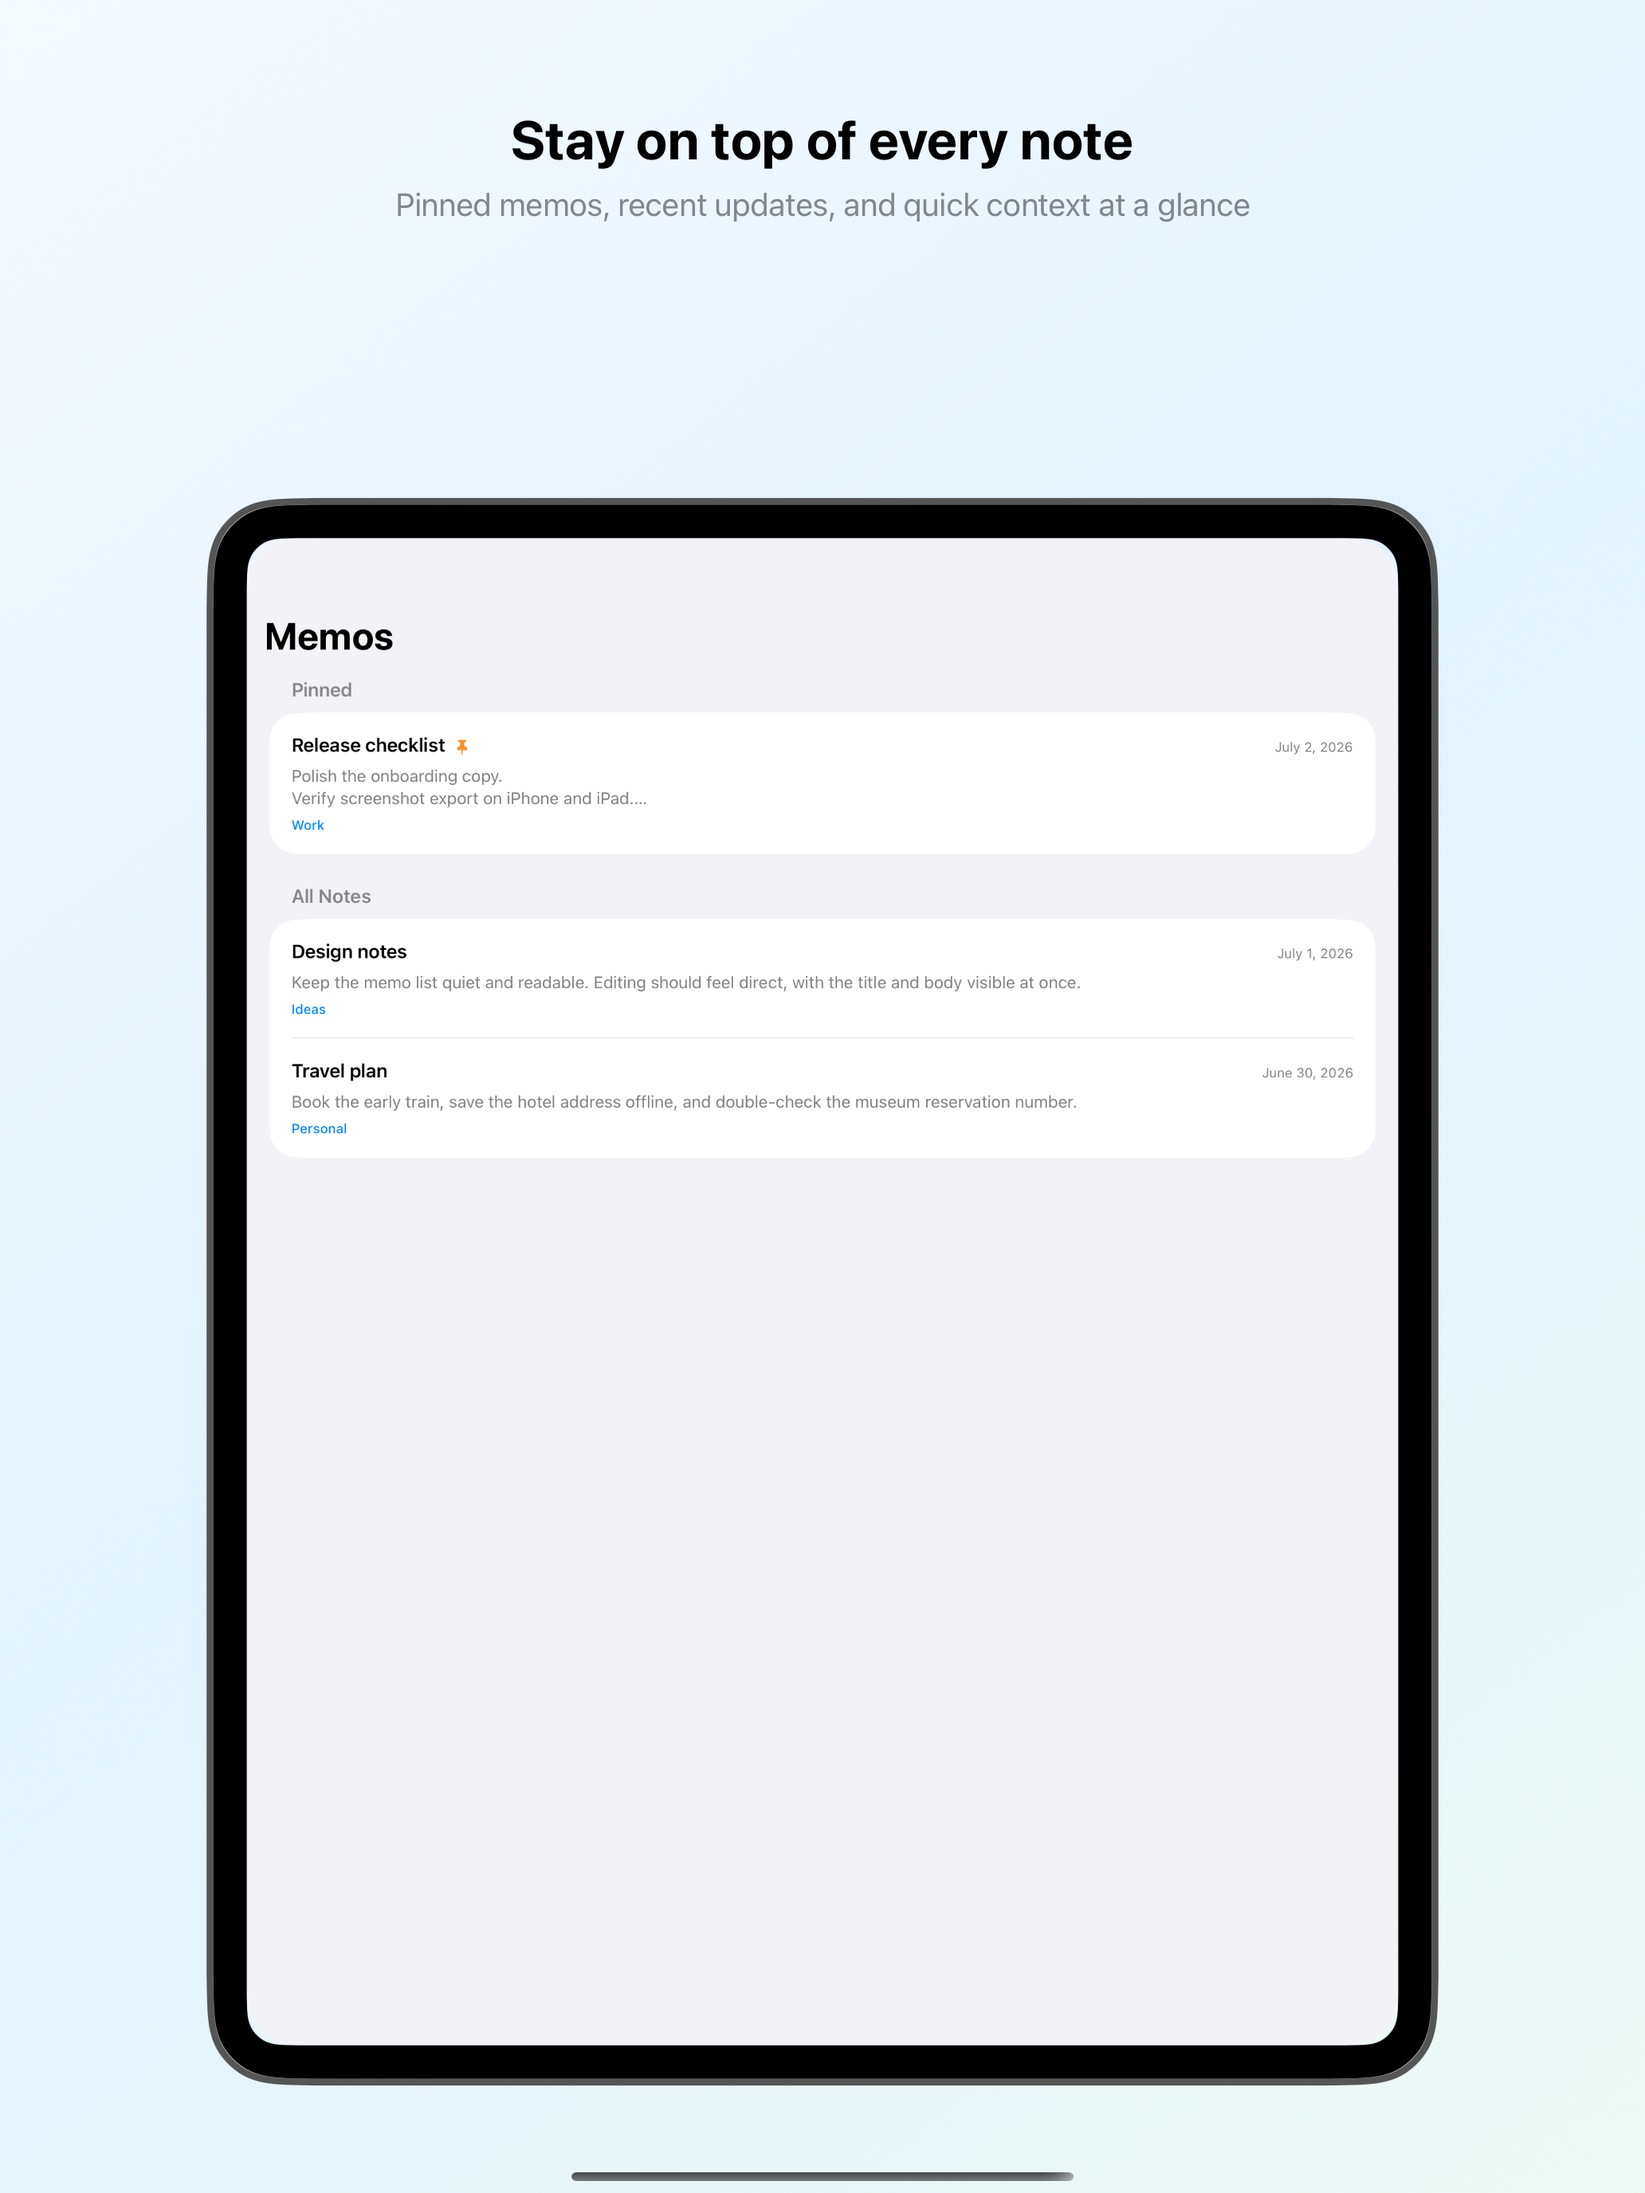
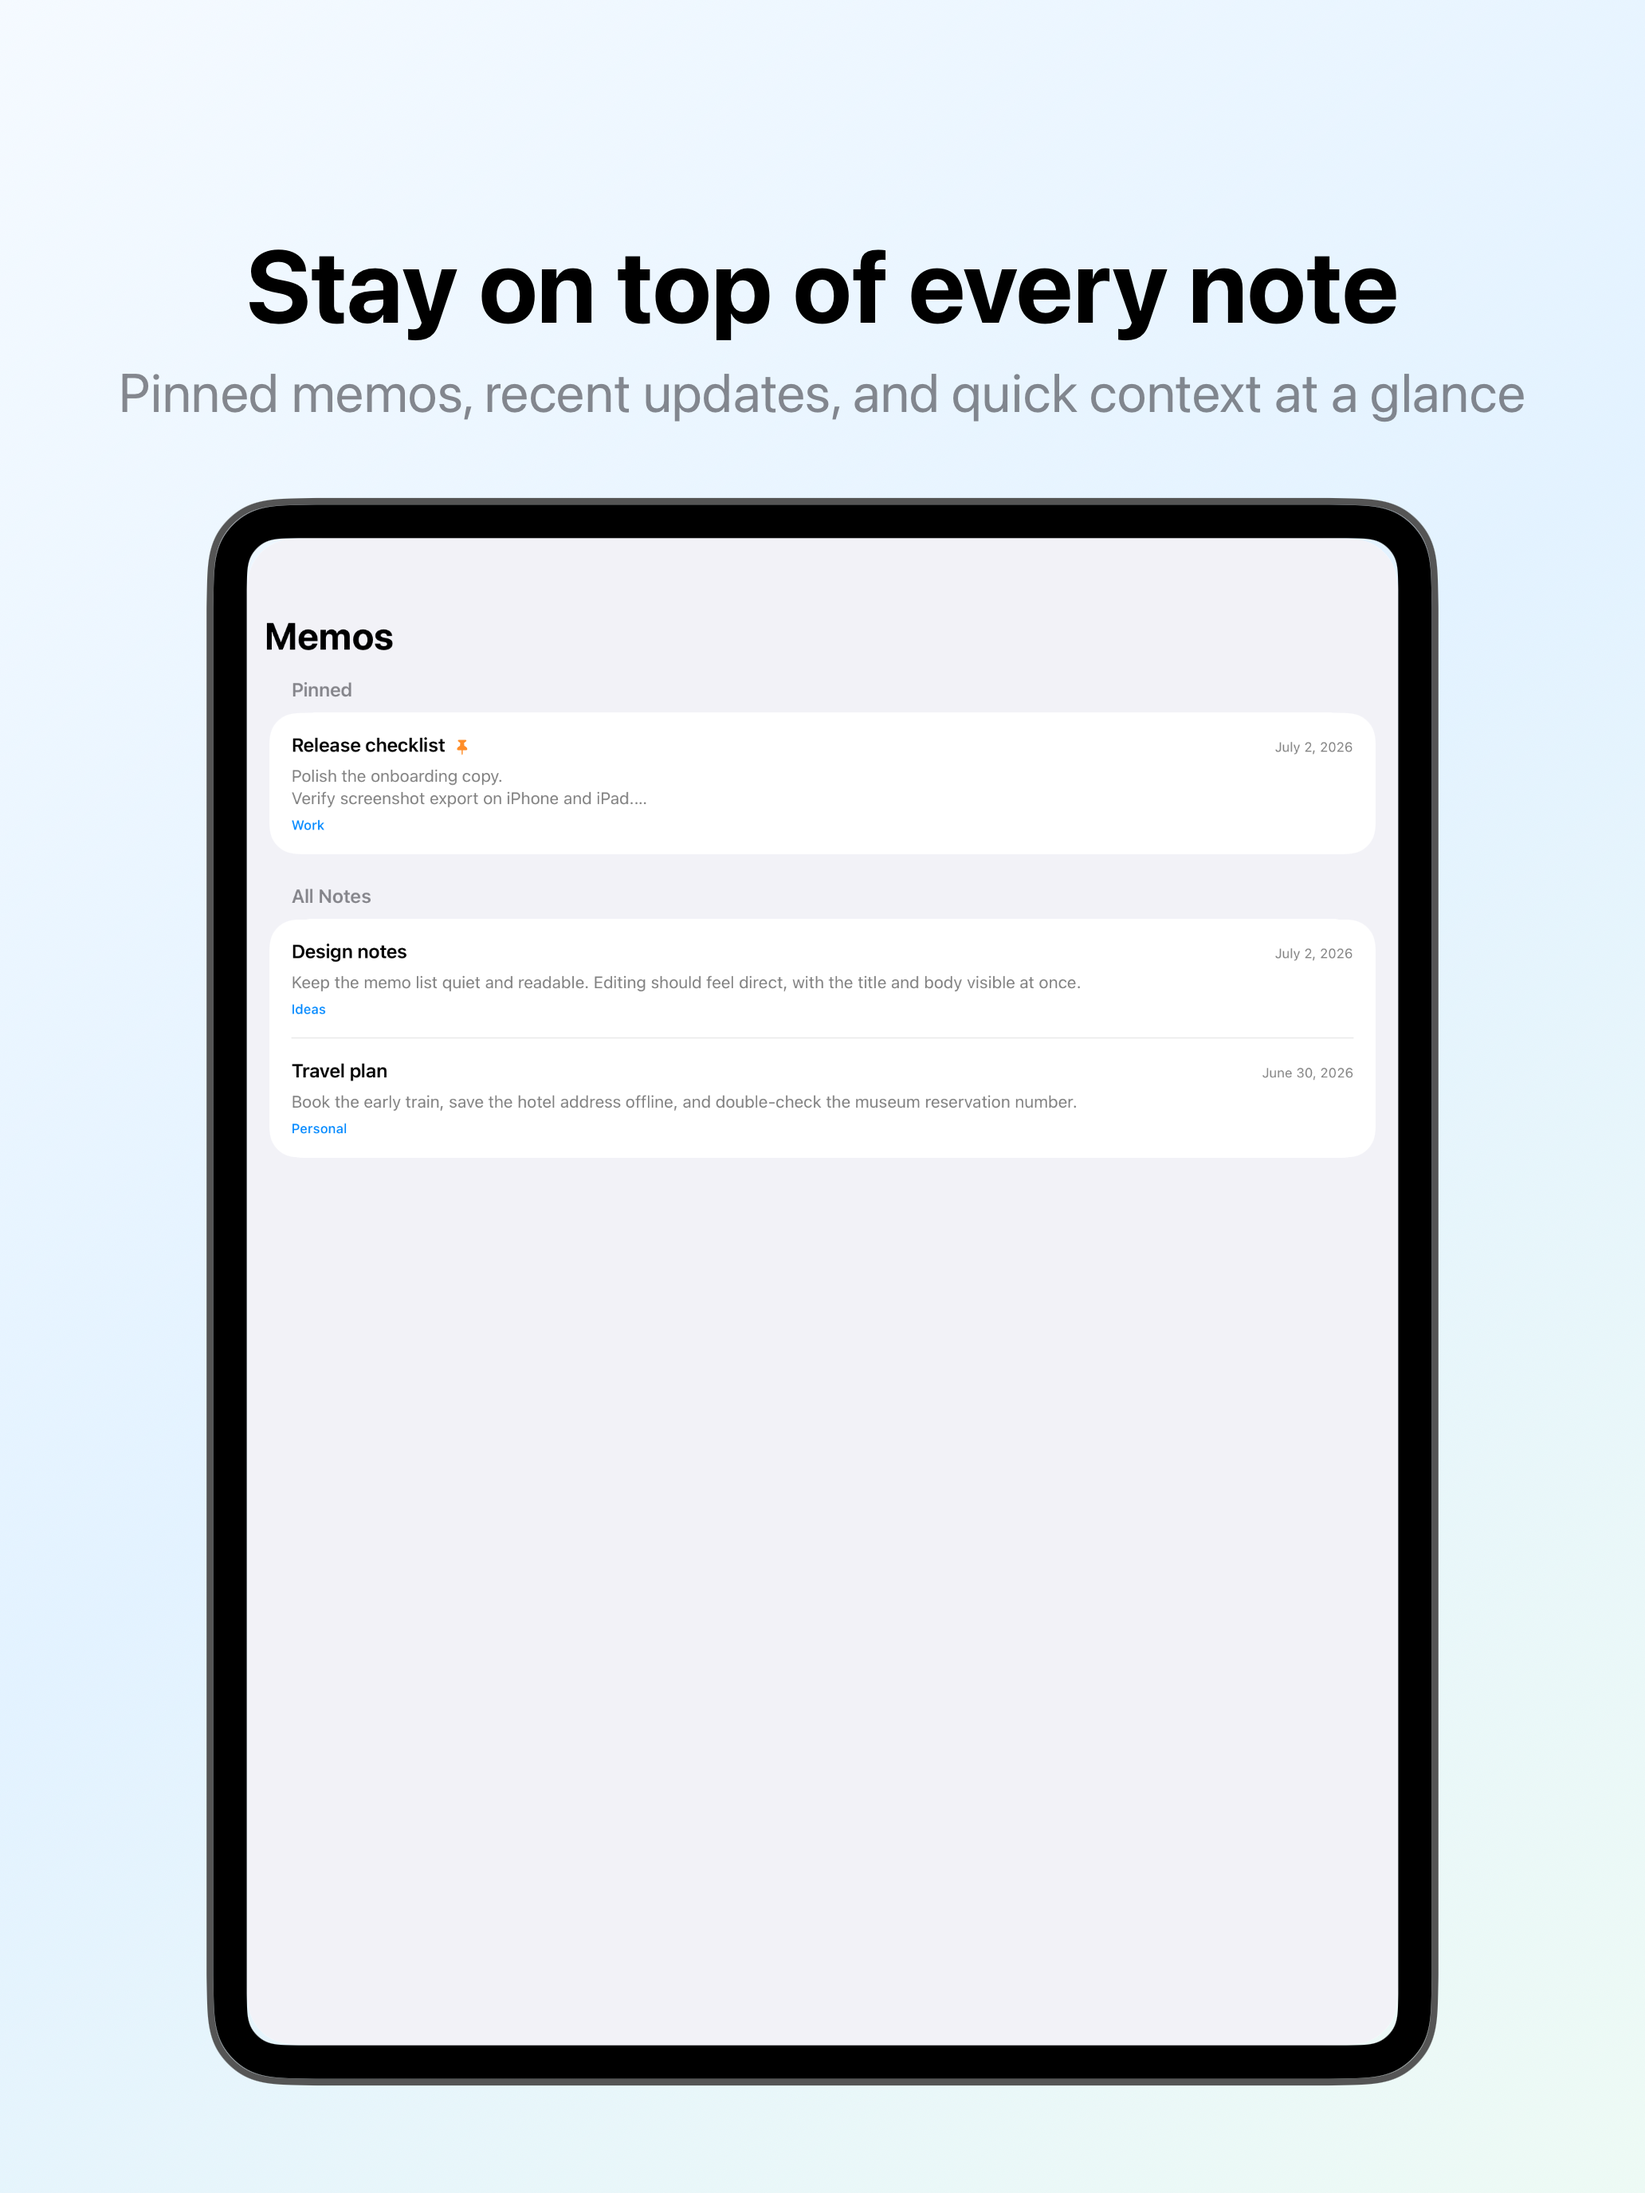
Add workspace configuration, update screenshot styles, and modify session paths for iPad Pro and iPhone 17 Pro Max

Changed region(s): [[0.062, 0.0312, 0.9302, 0.1875], [0.3411, 0.9688, 0.6512, 1.0]]

diff --git a/Sources/ScreenshotKit/Presentation/BuiltinScreenshotStyles.swift b/Sources/ScreenshotKit/Presentation/BuiltinScreenshotStyles.swift
@@ -11,9 +11,10 @@ public struct HeroScreenshotStyle: ScreenshotStyle {
     @MainActor
     public func makeBody(configuration: ScreenshotStyleConfiguration) -> some View {
         GeometryReader { proxy in
+            let deviceKind = ScreenshotDeviceKind.current
             let previewVerticalCompensation = ScreenshotPreviewLayoutMetrics.verticalCompensation(
                 isRunningForPreview: ScreenshotPreviewLayoutMetrics.isRunningForPreview(),
-                deviceKind: ScreenshotDeviceKind.current,
+                deviceKind: deviceKind,
                 topSafeAreaInset: proxy.safeAreaInsets.top
             )
 
@@ -31,7 +32,12 @@ public struct HeroScreenshotStyle: ScreenshotStyle {
                         .multilineTextAlignment(.center)
                 }
                 .padding(.horizontal)
-                .offset(x: 0, y: proxy.size.height * 0.05)
+                .offset(
+                    x: 0,
+                    y: ScreenshotPreviewLayoutMetrics.titleSubtitleVerticalOffset(
+                        for: deviceKind
+                    ) + proxy.size.height * 0.05
+                )
             }
             .offset(x: 0, y: previewVerticalCompensation)
         }
@@ -60,9 +66,23 @@ extension DefaultScreenshotStyle: ResolvedScreenshotStyleIdentifying {
 
 enum ScreenshotPreviewLayoutMetrics {
     static let previewEnvironmentKey = "XCODE_RUNNING_FOR_PREVIEW"
+    static let approximatePhoneStatusBarHeight: CGFloat = 46
+    static let approximatePhoneScreenHeight: CGFloat = 852
+    static let approximatePadScreenHeight: CGFloat = 1366
+    static let approximatePadTitleSubtitleVerticalOffset =
+        approximatePhoneStatusBarHeight * (approximatePadScreenHeight / approximatePhoneScreenHeight)
 
     static func isRunningForPreview(processInfo: ProcessInfo = .processInfo) -> Bool {
         processInfo.environment[previewEnvironmentKey] == "1"
+    }
+
+    static func titleSubtitleVerticalOffset(for deviceKind: ScreenshotDeviceKind) -> CGFloat {
+        switch deviceKind {
+        case .phone:
+            0
+        case .pad:
+            approximatePadTitleSubtitleVerticalOffset
+        }
     }
 
     static func verticalCompensation(

diff --git a/Sources/ScreenshotKit/Presentation/ScreenshotView+Initializers.swift b/Sources/ScreenshotKit/Presentation/ScreenshotView+Initializers.swift
@@ -17,19 +17,39 @@ public extension ScreenshotView where Background == EmptyView, Title == AnyView,
             title: {
                 AnyView(
                     Text(title)
-                        .font(.largeTitle)
+                        .font(ScreenshotDefaultTextStyle.titleFont)
                         .fontWeight(.bold)
                 )
             },
             subtitle: {
                 AnyView(
                     Text(subtitle)
-                        .font(.title3)
+                        .font(ScreenshotDefaultTextStyle.subtitleFont)
                         .foregroundStyle(.secondary)
                 )
             },
             content: content
         )
+    }
+}
+
+private enum ScreenshotDefaultTextStyle {
+    static var titleFont: Font {
+        switch ScreenshotDeviceKind.current {
+        case .phone:
+            .largeTitle
+        case .pad:
+            .system(size: 64, weight: .bold)
+        }
+    }
+
+    static var subtitleFont: Font {
+        switch ScreenshotDeviceKind.current {
+        case .phone:
+            .title3
+        case .pad:
+            .system(size: 34, weight: .regular)
+        }
     }
 }
 

diff --git a/Tests/ScreenshotKitTests/ScreenshotKitTests.swift b/Tests/ScreenshotKitTests/ScreenshotKitTests.swift
@@ -271,6 +271,17 @@ func previewLayoutMetricsCompensateTopInsetOnlyInPreview() {
 }
 
 @Test
+func previewLayoutMetricsUseFixedPadTitleOffsetOnlyForPad() {
+    #expect(
+        ScreenshotPreviewLayoutMetrics.titleSubtitleVerticalOffset(for: .phone) == 0
+    )
+    #expect(
+        ScreenshotPreviewLayoutMetrics.titleSubtitleVerticalOffset(for: .pad)
+        == ScreenshotPreviewLayoutMetrics.approximatePadTitleSubtitleVerticalOffset
+    )
+}
+
+@Test
 func screenshotStyleEnvironmentDefaultsToResolvedHeroStyle() {
     let environment = EnvironmentValues()
 

diff --git a/Sources/ScreenshotKit/Presentation/ScreenshotDeviceScreenView.swift b/Sources/ScreenshotKit/Presentation/ScreenshotDeviceScreenView.swift
@@ -107,7 +107,7 @@ enum ScreenshotDeviceKind {
     var outerBorderLineWidth: CGFloat {
         switch self {
         case .phone:
-            6
+            3
         case .pad:
             6
         }
@@ -116,7 +116,7 @@ enum ScreenshotDeviceKind {
     var innerBorderLineWidth: CGFloat {
         switch self {
         case .phone:
-            3
+            6
         case .pad:
             30
         }

diff --git a/ExampleApp/ExampleApp/ExampleScreenshotItems.swift b/ExampleApp/ExampleApp/ExampleScreenshotItems.swift
@@ -26,6 +26,10 @@ struct MemoListScreenshot: ScreenshotItem {
     }
 }
 
+#Preview {
+    MemoListScreenshot()
+}
+
 struct MemoEditScreenshot: ScreenshotItem {
     static let id = "memo-edit"
 
@@ -52,9 +56,6 @@ struct MemoEditScreenshot: ScreenshotItem {
     }
 }
 
-#Preview {
-    MemoListScreenshot()
-}
 
 #Preview {
     MemoEditScreenshot()
